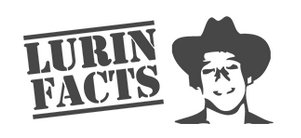
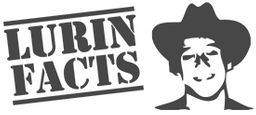
CSS stuff: Make header slimmer

diff --git a/app/index.html b/app/index.html
@@ -25,7 +25,7 @@
 
     <!-- Add your site or application content here -->
     <header>
-        <nav class="navbar navbar-default navbar-fixed-top" role="navigation" bs-navbar>
+        <nav class="navbar navbar-default navbar-static-top" role="navigation" bs-navbar>
             <div class="container" ng-controller="MenuCtrl as vm" ng-cloak>
                 <img src="images/header.png" class="img-responsive center-block">
                 <!-- Collect the nav links, forms, and other content for toggling -->

diff --git a/app/styles/main.less b/app/styles/main.less
@@ -13,7 +13,6 @@ h1 {
 }
 
 body {
-    padding-top: 240px;
     background-color: #F2F2F2;
 }
 
@@ -72,7 +71,6 @@ ul {
 
 .navbar {
     border-top: 15px solid @lurinyellow;
-    height: 230px;
     background-color: white;
     img {
         margin: 0 auto;
